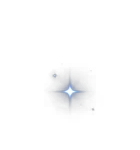
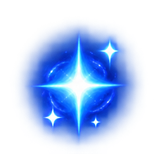
New rarity-glow art: 24 uniform frames per tier, real alpha
Replaces the old 13/19/19-frame sheets. The new sheets ship a proper alpha
channel (the previous ones were keyed out of a glow-on-black export) and use
bold, thick shapes that survive being drawn at 44px.

- Cut from one 6x4 grid per tier with a single shared square window centred on
  the union of all 24 frames' content, so the emblem cannot drift between
  frames. Downscaled to 160x160: 9.4MB -> 2.64MB, still 3.6x the display size.
- Frame timing is now a plain uniform rate over RarityBadgeLoopSeconds; the
  per-frame timestamp tables are gone.
- RarityBadgeAlphaGamma relaxed 0.55 -> 0.85: the strong lift existed to rescue
  thin keyed line work and is no longer needed.
- RarityBadgeVignetteStart 0.55 -> 0.85. Neighbouring glows overlap on the
  source grid, so each frame is still clipped square at its cell boundary
  (~r=0.93); fading just inside that softens the clip while keeping the halo.

diff --git a/ShopWishlistPlugin.cs b/ShopWishlistPlugin.cs
@@ -940,24 +940,26 @@ namespace HDTShopWishlist
             }
         }
 
-        // Rarity-glow badge: a short looping sparkle animation shown top-right of a highlighted
-        // card, colored by priority (Core/Important/Optional). Frame timestamps below are the
-        // exact ones printed on each source reference sheet (Assets/RarityGlow/<tier>), not a
-        // uniform frame rate - some frames hold longer than others by design.
-        private static readonly double[] CoreFrameSeconds = { 0.00, 0.10, 0.20, 0.30, 0.40, 0.80, 0.85, 1.10, 1.30, 1.50, 1.70, 1.90, 2.00 };
-        private static readonly double[] BlueFrameSeconds = { 0.00, 0.10, 0.20, 0.30, 0.40, 0.50, 0.60, 0.70, 0.80, 0.90, 1.00, 1.10, 1.20, 1.30, 1.40, 1.50, 1.60, 1.70, 2.00 };
+        // Rarity-glow badge: a looping sparkle shown on a highlighted card, coloured by priority
+        // (Core/Important/Optional). The sheets are 24 evenly-timed frames cut from one 6x4 grid
+        // per tier, so the animation is a plain uniform frame rate over RarityBadgeLoopSeconds -
+        // no per-frame timestamp table.
+        private const double RarityBadgeLoopSeconds = 2.0;
         private static readonly Dictionary<int, ObjectAnimationUsingKeyFrames> RarityAnimationCache = new Dictionary<int, ObjectAnimationUsingKeyFrames>();
         private static readonly object RarityAnimationCacheLock = new object();
 
-        // On-screen size of the badge, and the alpha curve applied to its frames. The sheets were
-        // exported with alpha = max(R,G,B) from "glow on black" sources, which leaves the faint
-        // outer glow at very low alpha; a gamma < 1 lifts it so thin strokes survive downscaling.
+        // On-screen size of the badge, and the alpha curve applied to its frames. The current
+        // sheets ship a real alpha channel with bold, thick shapes, so the gamma lift is mild -
+        // it only deepens contrast slightly. (The previous art needed a strong lift because it
+        // was thin line work keyed out of a glow-on-black export.)
         private const int RarityBadgeSize = 44;
-        private const double RarityBadgeAlphaGamma = 0.55;
+        private const double RarityBadgeAlphaGamma = 0.85;
         // Radius (as a fraction of the inscribed circle) where the badge's radial falloff starts.
-        // Lower = tighter, cleaner star; higher = keeps more of the surrounding glow but risks
-        // showing the source art's straight cut again.
-        private const double RarityBadgeVignetteStart = 0.55;
+        // The sheets are cut from a 6x4 grid whose neighbouring glows overlap, so each frame is
+        // clipped square at the cell boundary - roughly r = 0.93 here. Fading just inside that
+        // turns the clip into a soft edge. Raise towards 1.0 to keep more halo, lower for a
+        // tighter star.
+        private const double RarityBadgeVignetteStart = 0.85;
 
         // Badge position, measured inwards from the highlight box's top-right corner. It used to
         // hang half outside the card (negative margins), which read as badly placed - it now sits
@@ -1054,19 +1056,19 @@ namespace HDTShopWishlist
                 if (RarityAnimationCache.TryGetValue(priority, out cached)) return cached;
 
                 string folder = priority == 1 ? "Core" : priority == 2 ? "Important" : "Optional";
-                double[] seconds = priority == 1 ? CoreFrameSeconds : BlueFrameSeconds;
                 string assemblyDir = IOPath.GetDirectoryName(typeof(ShopWishlistPlugin).Assembly.Location) ?? string.Empty;
                 string dir = IOPath.Combine(assemblyDir, "Assets", "RarityGlow", folder);
 
-                var anim = new ObjectAnimationUsingKeyFrames { Duration = TimeSpan.FromSeconds(2.0), RepeatBehavior = RepeatBehavior.Forever };
+                var anim = new ObjectAnimationUsingKeyFrames { Duration = TimeSpan.FromSeconds(RarityBadgeLoopSeconds), RepeatBehavior = RepeatBehavior.Forever };
                 try
                 {
                     string[] files = Directory.Exists(dir) ? Directory.GetFiles(dir, "frame_*.png").OrderBy(f => f, StringComparer.OrdinalIgnoreCase).ToArray() : new string[0];
-                    for (int i = 0; i < files.Length && i < seconds.Length; i++)
+                    double step = files.Length > 0 ? RarityBadgeLoopSeconds / files.Length : 0.0;
+                    for (int i = 0; i < files.Length; i++)
                     {
                         BitmapSource bmp = LoadBadgeFrame(files[i]);
                         if (bmp == null) continue;
-                        anim.KeyFrames.Add(new DiscreteObjectKeyFrame(bmp, KeyTime.FromTimeSpan(TimeSpan.FromSeconds(seconds[i]))));
+                        anim.KeyFrames.Add(new DiscreteObjectKeyFrame(bmp, KeyTime.FromTimeSpan(TimeSpan.FromSeconds(i * step))));
                     }
                 }
                 catch { }
